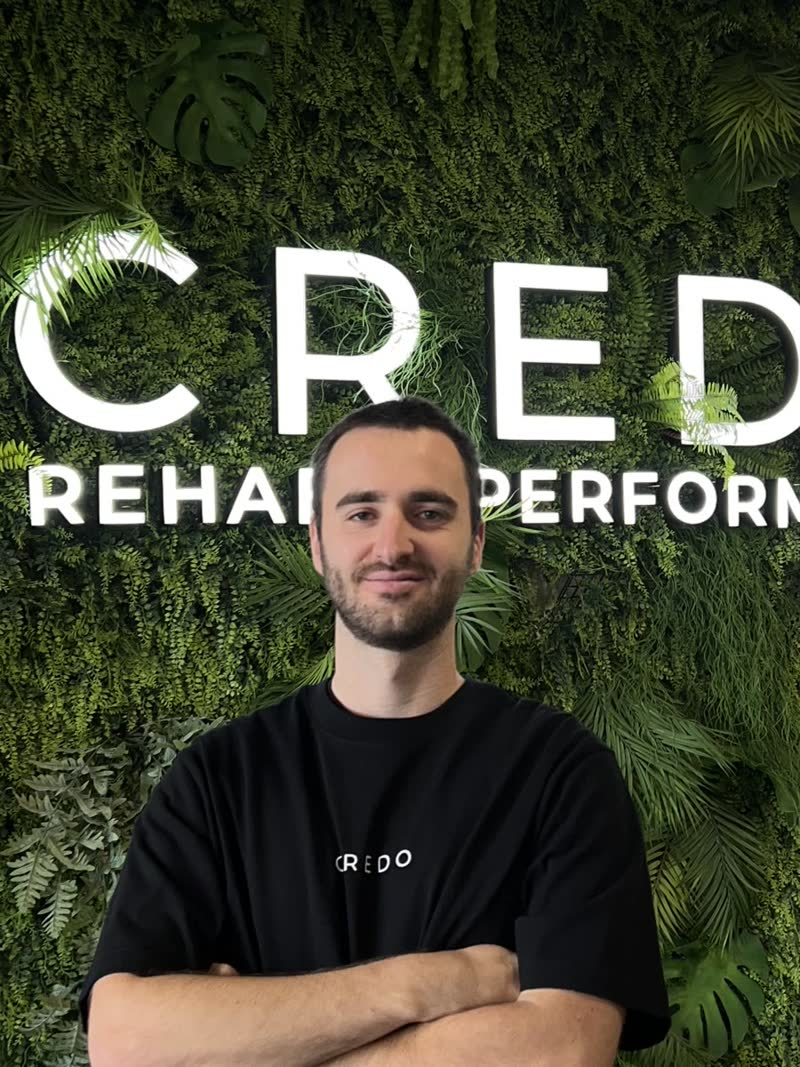
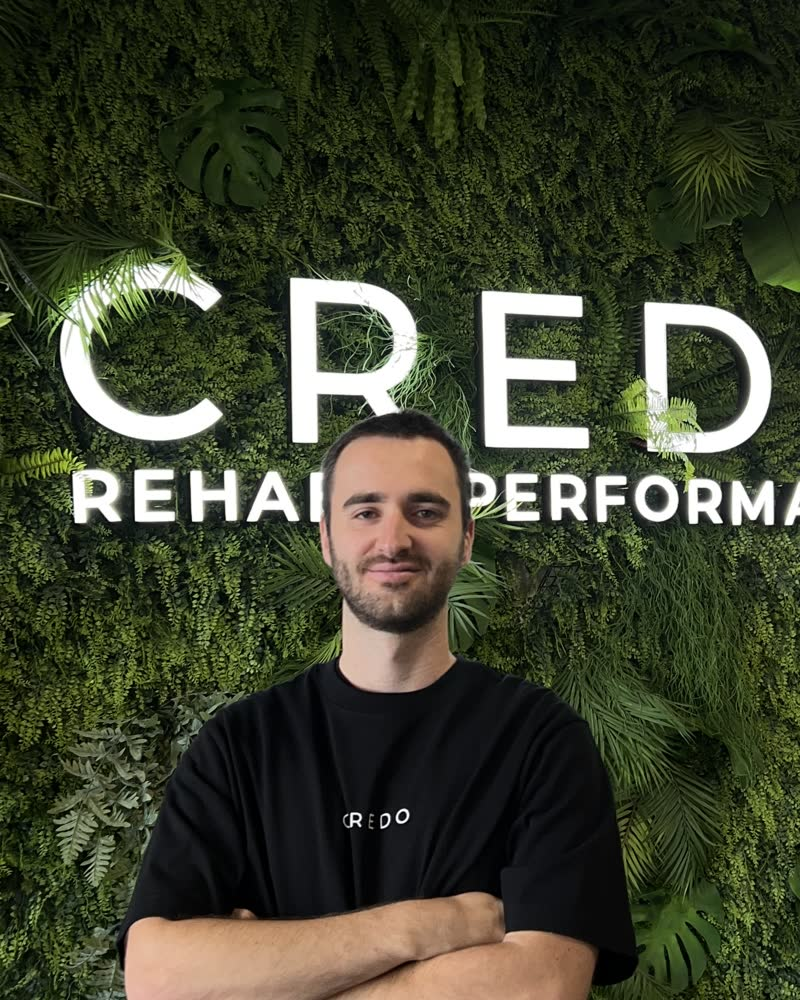
Put the team in the spotlight; rebuild the "1 Doel" lockup
Team: the cards were still a contact sheet — a photo with a caption printed
underneath it. The portrait now carries the person instead of illustrating
them: full-bleed 4:5 frame, a scrim, the roster number in the corner, and the
name set across the bottom at display scale with the role above it. Below the
frame each person gets their standout credentials as chips (clubs, techniques)
so the six read as specialists rather than six faces.

The credentials panel keeps working on hover, tap and keyboard, but it now
starts from the top of the frame with the name still legible beneath it —
before, opening the panel hid whose credentials you were reading.

Portraits recropped from 3:4 to 4:5 against the new frame, biased so heads
clear the top edge and no one is covered by their own name lockup.

Cijfers: the numeral and the word are one lockup now — a 14rem "1" against
"Doel" at display scale — with the line the section builds to sitting under
it on its own rule, rather than the word being an eyebrow beside the number.

Claude-Session: https://claude.ai/code/session_019DifeqnGhQgQJH4E67en8R

diff --git a/index.html b/index.html
@@ -297,20 +297,49 @@
      said it was there. This badge is that cue, and it steps aside once the
      panel is up. */
   .team-cue {
-    position: absolute; z-index: 4; right: .75rem; bottom: .75rem;
+    position: absolute; z-index: 5; right: .85rem; top: .85rem;
     display: flex; align-items: center; justify-content: center;
-    width: 2rem; height: 2rem;
-    background: rgba(13,13,13,.72); color: var(--bone);
-    border: 1px solid rgba(244,241,234,.35);
-    font-size: 15px; line-height: 1;
+    width: 2.1rem; height: 2.1rem;
+    background: rgba(13,13,13,.6); color: var(--bone);
+    border: 1px solid rgba(244,241,234,.4);
+    font-size: 16px; line-height: 1;
     transition: opacity .3s ease, background-color .3s ease;
   }
   .team-card:hover .team-cue,
   .team-card:focus-within .team-cue,
   .team-card.is-open .team-cue { opacity: 0; }
 
-  /* Roster index sits behind the name, like the section numbering elsewhere. */
-  .team-index { font-size: 11px; letter-spacing: .2em; color: var(--taupe); }
+  /* Portrait carries the name rather than captioning it underneath — the
+     grid read as a contact sheet when the type sat outside the frame. */
+  .team-media { position: relative; overflow: hidden; aspect-ratio: 4 / 5; background: var(--ink); }
+  .team-scrim {
+    position: absolute; inset: 0; z-index: 2; pointer-events: none;
+    background: linear-gradient(to top,
+      rgba(13,13,13,.94) 0%, rgba(13,13,13,.72) 22%, rgba(13,13,13,.18) 48%, rgba(13,13,13,0) 68%);
+  }
+  .team-caption {
+    position: absolute; z-index: 6; inset-inline: 0; bottom: 0;
+    padding: 1.15rem 1.15rem 1.25rem;
+    pointer-events: none;                 /* clicks fall through to .team-toggle */
+  }
+  .team-name {
+    font-size: clamp(1.5rem, 2.6vw, 2.15rem);
+    line-height: .92; color: var(--bone);
+  }
+  .team-no {
+    position: absolute; z-index: 3; top: .9rem; left: 1.15rem;
+    font-size: 11px; letter-spacing: .22em; color: rgba(244,241,234,.75);
+  }
+  /* Keep the credentials clear of the name that stays visible below them. */
+  .team-panel { padding-bottom: 6.75rem; justify-content: flex-start; padding-top: 1.25rem; }
+
+  .team-chip {
+    display: inline-block;
+    border: 1px solid rgba(13,13,13,.22);
+    padding: .34rem .7rem;
+    font-size: 10px; letter-spacing: .16em; text-transform: uppercase;
+    color: rgba(13,13,13,.7);
+  }
 
   /* ---------- Converging hairlines in the stats section ---------- */
   .converge path {
@@ -844,19 +873,18 @@
       </div>
 
       <!-- The one -->
-      <div class="lg:col-span-5 reveal reveal-d2">
-        <div class="flex items-center gap-6 md:gap-10 lg:pl-4">
+      <div class="lg:col-span-5 reveal reveal-d2 lg:pl-4">
+        <!-- The numeral and the word read as one lockup; the line the whole
+             section counts towards sits underneath it, on its own rule. -->
+        <div class="flex items-center gap-5 md:gap-8">
           <p class="display leading-[0.78] text-taupe2 text-[clamp(6.5rem,20vw,14rem)] shrink-0" data-count="1">0</p>
-          <div class="border-l border-bone/20 pl-6 md:pl-8">
-            <p class="eyebrow text-bone/50">Doel</p>
-            <!-- The one line the whole section counts towards, so it is set at
-                 display scale rather than as body copy. -->
-            <p class="mt-4 display text-[clamp(1.5rem,3.2vw,2.5rem)] leading-[1.02] text-bone max-w-[16ch]">
-              Jou terugbrengen op het niveau waar je vandaan komt.
-              <span class="text-taupe2">En daarna voorbij.</span>
-            </p>
-          </div>
+          <p class="display text-bone leading-[0.82] text-[clamp(3.2rem,10vw,7rem)]">Doel</p>
         </div>
+
+        <p class="mt-8 md:mt-10 pt-8 md:pt-10 border-t border-bone/20 display leading-[1.02] text-bone text-[clamp(1.5rem,3.2vw,2.5rem)] max-w-[22ch]">
+          Jou terugbrengen op het niveau waar je vandaan komt.
+          <span class="text-taupe2">En daarna voorbij.</span>
+        </p>
       </div>
 
     </div>
@@ -884,15 +912,18 @@
       </p>
     </div>
 
-    <div class="grid gap-x-6 gap-y-14 sm:grid-cols-2 lg:grid-cols-3">
+    <div class="grid gap-x-6 gap-y-12 sm:grid-cols-2 lg:grid-cols-3">
 
-      <!-- Thomas Casier — IMAGE MAPPING UNCONFIRMED: swap src if wrong -->
       <article class="team-card reveal reveal-fly">
-        <div class="relative overflow-hidden aspect-[3/4] frame-light" data-imgwrap>
+        <div class="team-media frame-light" data-imgwrap>
           <img src="assets/img/team/thomas.jpg"
                alt="Portret van Thomas Casier, kinesist en zaakvoerder bij Credo."
                class="photo team-photo absolute inset-0" loading="lazy" decoding="async"
                onerror="imgFail(this,'T1')">
+
+          <span class="team-scrim" aria-hidden="true"></span>
+          <span class="team-no" aria-hidden="true">01</span>
+
           <div class="team-panel" id="cred-thomas">
             <p class="eyebrow eyebrow-light mb-3">Credentials</p>
             <ul class="text-[13px] leading-relaxed text-bone/85 space-y-1.5">
@@ -902,23 +933,37 @@
               <li>Kinesitherapeut Torpedo Hasselt</li>
             </ul>
           </div>
+
           <button class="team-toggle" type="button" aria-expanded="false" aria-controls="cred-thomas">
             <span>Toon credentials van Thomas Casier</span>
           </button>
           <span class="team-cue" aria-hidden="true">+</span>
+
+          <div class="team-caption">
+            <p class="eyebrow text-bone/65">Kinesist — Zaakvoerder</p>
+            <h3 class="display team-name mt-2">
+              <span class="block">Thomas</span><span class="block">Casier</span>
+            </h3>
+          </div>
         </div>
-        <p class="team-index mt-5 uppercase">01</p>
-        <h3 class="display mt-2 text-[clamp(1.35rem,2.6vw,2rem)] leading-[0.95] text-ink">Thomas Casier</h3>
-        <p class="eyebrow mt-2">Kinesist — Zaakvoerder</p>
+
+        <ul class="mt-4 flex flex-wrap gap-2">
+          <li class="team-chip">Manuele therapie</li>
+          <li class="team-chip">Sportvoeding</li>
+          <li class="team-chip">Torpedo Hasselt</li>
+        </ul>
       </article>
 
-      <!-- Milan Vandecaetsbeek — IMAGE MAPPING UNCONFIRMED -->
       <article class="team-card reveal reveal-fly reveal-d1">
-        <div class="relative overflow-hidden aspect-[3/4] frame-light" data-imgwrap>
+        <div class="team-media frame-light" data-imgwrap>
           <img src="assets/img/team/milan.jpg"
                alt="Portret van Milan Vandecaetsbeek, kinesist en zaakvoerder bij Credo."
                class="photo team-photo absolute inset-0" loading="lazy" decoding="async"
                onerror="imgFail(this,'T2')">
+
+          <span class="team-scrim" aria-hidden="true"></span>
+          <span class="team-no" aria-hidden="true">02</span>
+
           <div class="team-panel" id="cred-milan">
             <p class="eyebrow eyebrow-light mb-3">Credentials</p>
             <ul class="text-[13px] leading-relaxed text-bone/85 space-y-1.5">
@@ -929,23 +974,37 @@
               <li>Strength Coach Sporting Hasselt (2025–heden)</li>
             </ul>
           </div>
+
           <button class="team-toggle" type="button" aria-expanded="false" aria-controls="cred-milan">
             <span>Toon credentials van Milan Vandecaetsbeek</span>
           </button>
           <span class="team-cue" aria-hidden="true">+</span>
+
+          <div class="team-caption">
+            <p class="eyebrow text-bone/65">Kinesist — Zaakvoerder</p>
+            <h3 class="display team-name mt-2">
+              <span class="block">Milan</span><span class="block">Vandecaetsbeek</span>
+            </h3>
+          </div>
         </div>
-        <p class="team-index mt-5 uppercase">02</p>
-        <h3 class="display mt-2 text-[clamp(1.35rem,2.6vw,2rem)] leading-[0.95] text-ink">Milan Vandecaetsbeek</h3>
-        <p class="eyebrow mt-2">Kinesist — Zaakvoerder</p>
+
+        <ul class="mt-4 flex flex-wrap gap-2">
+          <li class="team-chip">Red Flames</li>
+          <li class="team-chip">KRC Genk Ladies</li>
+          <li class="team-chip">Sportletsels</li>
+        </ul>
       </article>
 
-      <!-- Tuur Vanderstukken — IMAGE MAPPING UNCONFIRMED -->
       <article class="team-card reveal reveal-fly reveal-d2">
-        <div class="relative overflow-hidden aspect-[3/4] frame-light" data-imgwrap>
+        <div class="team-media frame-light" data-imgwrap>
           <img src="assets/img/team/tuur.jpg"
                alt="Portret van Tuur Vanderstukken, kinesist en zaakvoerder bij Credo."
                class="photo team-photo absolute inset-0" loading="lazy" decoding="async"
                onerror="imgFail(this,'T3')">
+
+          <span class="team-scrim" aria-hidden="true"></span>
+          <span class="team-no" aria-hidden="true">03</span>
+
           <div class="team-panel" id="cred-tuur">
             <p class="eyebrow eyebrow-light mb-3">Credentials</p>
             <ul class="text-[13px] leading-relaxed text-bone/85 space-y-1.5">
@@ -957,23 +1016,37 @@
               <li>Physical Coach OH Leuven (2025–heden)</li>
             </ul>
           </div>
+
           <button class="team-toggle" type="button" aria-expanded="false" aria-controls="cred-tuur">
             <span>Toon credentials van Tuur Vanderstukken</span>
           </button>
           <span class="team-cue" aria-hidden="true">+</span>
+
+          <div class="team-caption">
+            <p class="eyebrow text-bone/65">Kinesist — Zaakvoerder</p>
+            <h3 class="display team-name mt-2">
+              <span class="block">Tuur</span><span class="block">Vanderstukken</span>
+            </h3>
+          </div>
         </div>
-        <p class="team-index mt-5 uppercase">03</p>
-        <h3 class="display mt-2 text-[clamp(1.35rem,2.6vw,2rem)] leading-[0.95] text-ink">Tuur Vanderstukken</h3>
-        <p class="eyebrow mt-2">Kinesist — Zaakvoerder</p>
+
+        <ul class="mt-4 flex flex-wrap gap-2">
+          <li class="team-chip">OH Leuven</li>
+          <li class="team-chip">Dry needling</li>
+          <li class="team-chip">BFR</li>
+        </ul>
       </article>
 
-      <!-- Rimke Eurlings — IMAGE MAPPING UNCONFIRMED -->
-      <article class="team-card reveal reveal-fly">
-        <div class="relative overflow-hidden aspect-[3/4] frame-light" data-imgwrap>
+      <article class="team-card reveal reveal-fly reveal-d1">
+        <div class="team-media frame-light" data-imgwrap>
           <img src="assets/img/team/rimke.jpg"
                alt="Portret van Rimke Eurlings, kinesist bij Credo."
                class="photo team-photo absolute inset-0" loading="lazy" decoding="async"
                onerror="imgFail(this,'T4')">
+
+          <span class="team-scrim" aria-hidden="true"></span>
+          <span class="team-no" aria-hidden="true">04</span>
+
           <div class="team-panel" id="cred-rimke">
             <p class="eyebrow eyebrow-light mb-3">Credentials</p>
             <ul class="text-[13px] leading-relaxed text-bone/85 space-y-1.5">
@@ -983,23 +1056,37 @@
               <li>Praktijkassistent UHasselt</li>
             </ul>
           </div>
+
           <button class="team-toggle" type="button" aria-expanded="false" aria-controls="cred-rimke">
             <span>Toon credentials van Rimke Eurlings</span>
           </button>
           <span class="team-cue" aria-hidden="true">+</span>
+
+          <div class="team-caption">
+            <p class="eyebrow text-bone/65">Kinesist</p>
+            <h3 class="display team-name mt-2">
+              <span class="block">Rimke</span><span class="block">Eurlings</span>
+            </h3>
+          </div>
         </div>
-        <p class="team-index mt-5 uppercase">04</p>
-        <h3 class="display mt-2 text-[clamp(1.35rem,2.6vw,2rem)] leading-[0.95] text-ink">Rimke Eurlings</h3>
-        <p class="eyebrow mt-2">Kinesist</p>
+
+        <ul class="mt-4 flex flex-wrap gap-2">
+          <li class="team-chip">Sporting Hasselt Ladies</li>
+          <li class="team-chip">UHasselt</li>
+          <li class="team-chip">Sportletsels</li>
+        </ul>
       </article>
 
-      <!-- Philippe Valvekens — IMAGE MAPPING UNCONFIRMED -->
-      <article class="team-card reveal reveal-fly reveal-d1">
-        <div class="relative overflow-hidden aspect-[3/4] frame-light" data-imgwrap>
+      <article class="team-card reveal reveal-fly reveal-d2">
+        <div class="team-media frame-light" data-imgwrap>
           <img src="assets/img/team/philippe.jpg"
                alt="Portret van Philippe Valvekens, kinesist bij Credo."
                class="photo team-photo absolute inset-0" loading="lazy" decoding="async"
                onerror="imgFail(this,'T5')">
+
+          <span class="team-scrim" aria-hidden="true"></span>
+          <span class="team-no" aria-hidden="true">05</span>
+
           <div class="team-panel" id="cred-philippe">
             <p class="eyebrow eyebrow-light mb-3">Credentials</p>
             <ul class="text-[13px] leading-relaxed text-bone/85 space-y-1.5">
@@ -1007,23 +1094,35 @@
               <li>Specialisatie sportletsels</li>
             </ul>
           </div>
+
           <button class="team-toggle" type="button" aria-expanded="false" aria-controls="cred-philippe">
             <span>Toon credentials van Philippe Valvekens</span>
           </button>
           <span class="team-cue" aria-hidden="true">+</span>
+
+          <div class="team-caption">
+            <p class="eyebrow text-bone/65">Kinesist</p>
+            <h3 class="display team-name mt-2">
+              <span class="block">Philippe</span><span class="block">Valvekens</span>
+            </h3>
+          </div>
         </div>
-        <p class="team-index mt-5 uppercase">05</p>
-        <h3 class="display mt-2 text-[clamp(1.35rem,2.6vw,2rem)] leading-[0.95] text-ink">Philippe Valvekens</h3>
-        <p class="eyebrow mt-2">Kinesist</p>
+
+        <ul class="mt-4 flex flex-wrap gap-2">
+          <li class="team-chip">Sportletsels</li>
+        </ul>
       </article>
 
-      <!-- Dries Verschueren — IMAGE MAPPING UNCONFIRMED -->
-      <article class="team-card reveal reveal-fly reveal-d2">
-        <div class="relative overflow-hidden aspect-[3/4] frame-light" data-imgwrap>
+      <article class="team-card reveal reveal-fly reveal-d3">
+        <div class="team-media frame-light" data-imgwrap>
           <img src="assets/img/team/dries.jpg"
                alt="Portret van Dries Verschueren, kinesist bij Credo."
                class="photo team-photo absolute inset-0" loading="lazy" decoding="async"
                onerror="imgFail(this,'T6')">
+
+          <span class="team-scrim" aria-hidden="true"></span>
+          <span class="team-no" aria-hidden="true">06</span>
+
           <div class="team-panel" id="cred-dries">
             <p class="eyebrow eyebrow-light mb-3">Credentials</p>
             <ul class="text-[13px] leading-relaxed text-bone/85 space-y-1.5">
@@ -1032,14 +1131,24 @@
               <li>Hoofdkinesitherapeut Sporting Hasselt (2025–heden)</li>
             </ul>
           </div>
+
           <button class="team-toggle" type="button" aria-expanded="false" aria-controls="cred-dries">
             <span>Toon credentials van Dries Verschueren</span>
           </button>
           <span class="team-cue" aria-hidden="true">+</span>
+
+          <div class="team-caption">
+            <p class="eyebrow text-bone/65">Kinesist</p>
+            <h3 class="display team-name mt-2">
+              <span class="block">Dries</span><span class="block">Verschueren</span>
+            </h3>
+          </div>
         </div>
-        <p class="team-index mt-5 uppercase">06</p>
-        <h3 class="display mt-2 text-[clamp(1.35rem,2.6vw,2rem)] leading-[0.95] text-ink">Dries Verschueren</h3>
-        <p class="eyebrow mt-2">Kinesist</p>
+
+        <ul class="mt-4 flex flex-wrap gap-2">
+          <li class="team-chip">Sporting Hasselt</li>
+          <li class="team-chip">Sportletsels</li>
+        </ul>
       </article>
 
     </div>
